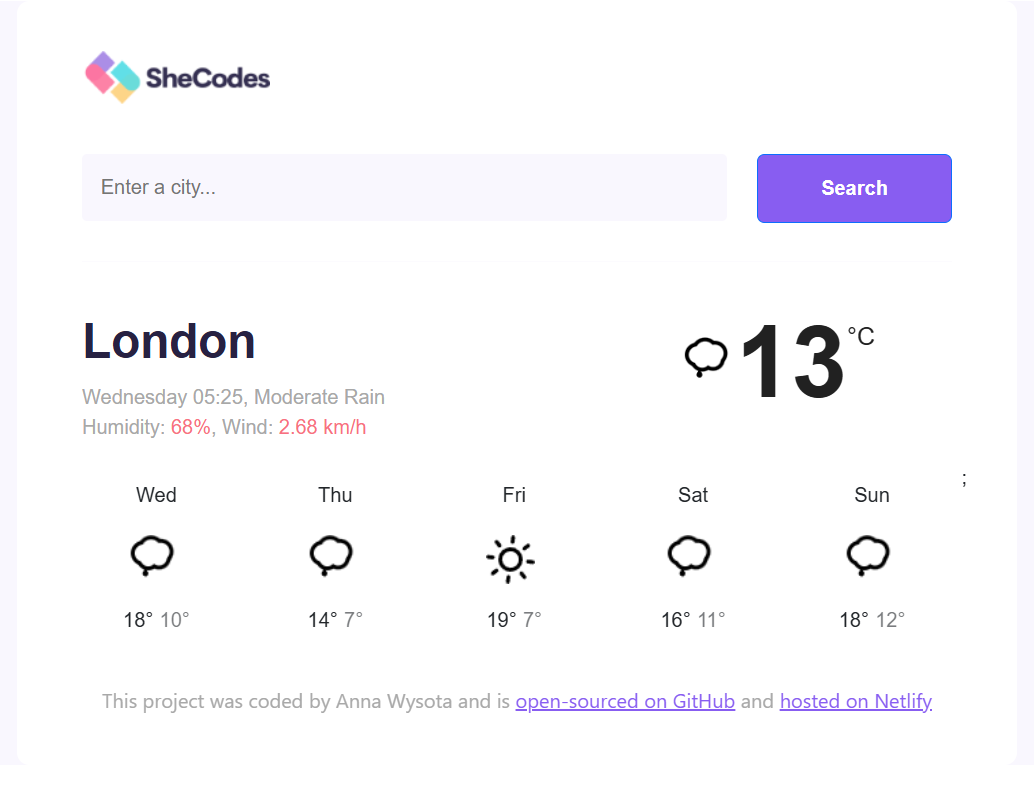
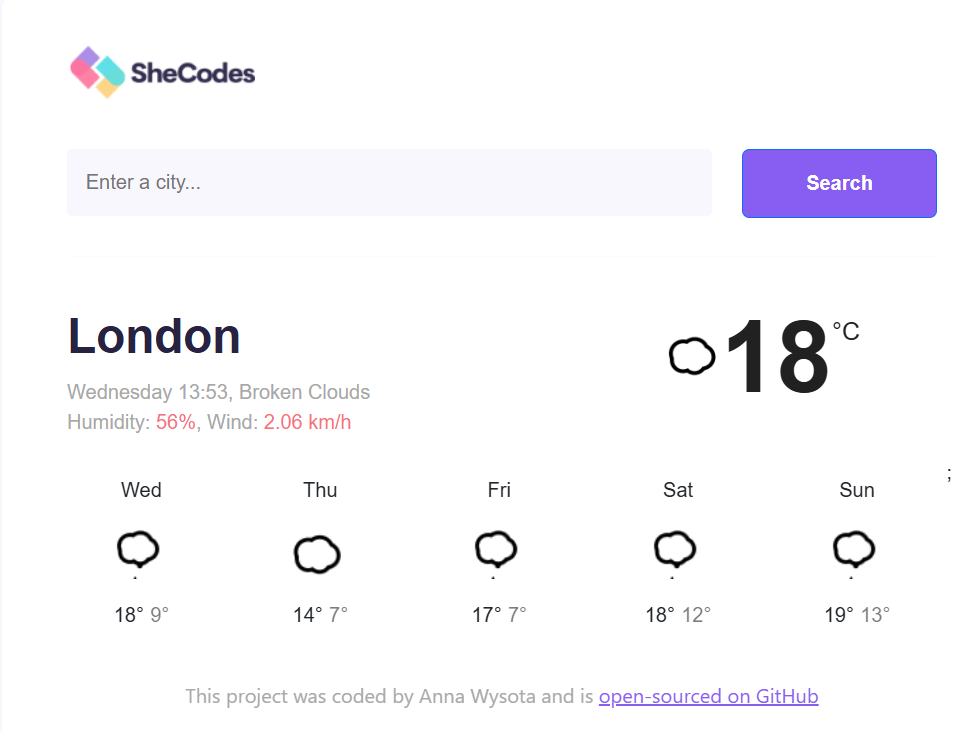
Image changed, responsiveness ensured

diff --git a/styles/styles.css b/styles/styles.css
@@ -228,4 +228,8 @@ footer .text-center a {
   .content a {
     text-align: center;
   }
+  .email-link {
+    text-align: center;
+    font-size: 14px;
+  }
 }
